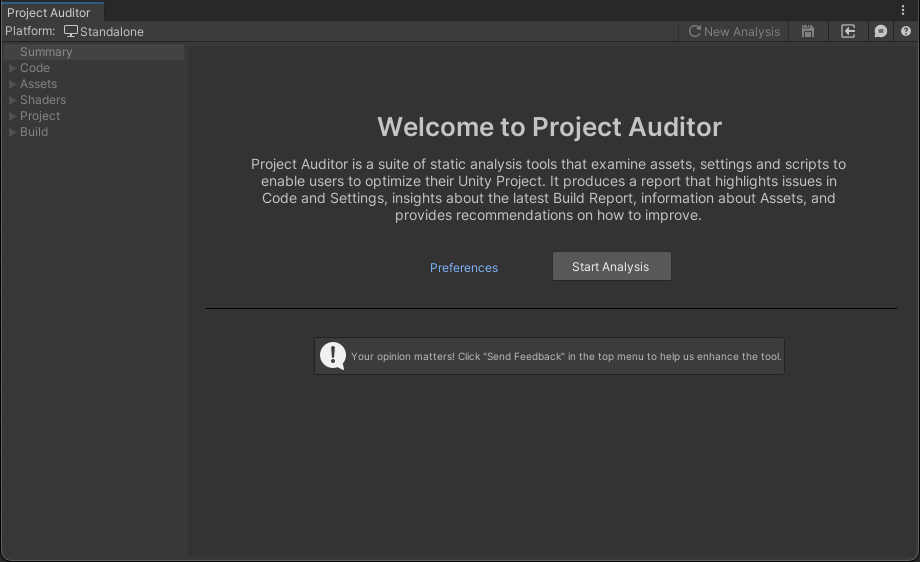
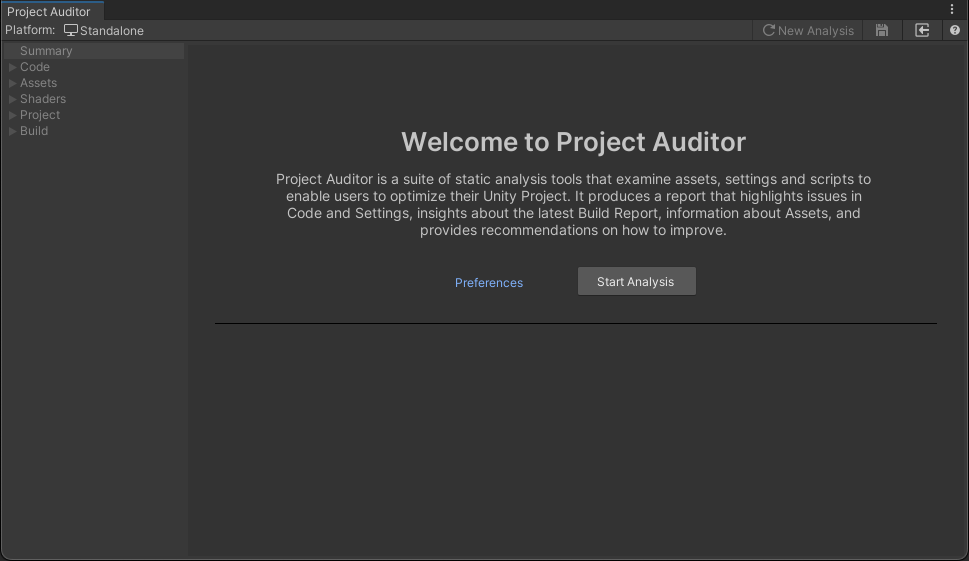
Removed feedback button

diff --git a/com.unity.project-auditor/Editor/UI/ProjectAuditorWindow.cs b/com.unity.project-auditor/Editor/UI/ProjectAuditorWindow.cs
@@ -1403,15 +1403,6 @@ namespace Unity.ProjectAuditor.Editor.UI
 
                     DrawHorizontalLine();
 
-                    EditorGUILayout.Space(k_SpacingHeight);
-
-                    using (new EditorGUILayout.HorizontalScope())
-                    {
-                        GUILayout.FlexibleSpace();
-                        EditorGUILayout.HelpBox(Contents.FeedbackBoxText, MessageType.Info);
-                        GUILayout.FlexibleSpace();
-                    }
-
                     GUILayout.FlexibleSpace();
                     GUILayout.FlexibleSpace();
                     GUILayout.FlexibleSpace();
@@ -1776,8 +1767,6 @@ namespace Unity.ProjectAuditor.Editor.UI
                     LoadReport();
                 }
 
-                Utility.DrawHelpButton(Contents.FeedbackButton, k_FeedbackFormUrl);
-
                 Utility.DrawHelpButton(Contents.HelpButton, Documentation.GetPageUrl("index"));
             }
         }
@@ -1971,7 +1960,6 @@ namespace Unity.ProjectAuditor.Editor.UI
         const string k_SaveToFile = "Save report to json file";
         const string k_Discard = "Discard current report";
         const string k_DiscardQuestion = "The current report will be lost. Are you sure?";
-        const string k_FeedbackFormUrl = "https://forms.gle/dfoJZBMtHYYQMZmE8";
 
         // UI styles and layout
         static class LayoutSize
@@ -1993,7 +1981,6 @@ namespace Unity.ProjectAuditor.Editor.UI
             public static readonly GUIContent LoadButton = Utility.GetIcon(Utility.IconType.Load, "Load report from json file");
             public static readonly GUIContent DiscardButton = EditorGUIUtility.TrTextContentWithIcon("New Analysis", "Discard the current report and return to the Welcome view.", "Refresh");
 
-            public static readonly GUIContent FeedbackButton = Utility.GetIcon(Utility.IconType.Feedback, "Send feedback to the Project Auditor team");
             public static readonly GUIContent HelpButton = Utility.GetIcon(Utility.IconType.Help, "Open Manual (in a web browser)");
             public static readonly GUIContent PreferencesMenuItem = EditorGUIUtility.TrTextContent("Preferences", $"Open User Preferences for {ProjectAuditor.DisplayName}");
 
@@ -2025,8 +2012,6 @@ enable users to optimize their Unity Project. It produces a report that highligh
 Code and Settings, insights about the latest Build Report, information about Assets, and
 provides recommendations on how to improve."
             );
-
-            public static readonly string FeedbackBoxText = "Your opinion matters! Click \"Send Feedback\" in the top menu to help us enhance the tool.";
 
             public static readonly GUIContent Clear = new GUIContent("Clear");
             public static readonly GUIContent Refresh = new GUIContent("Refresh");

diff --git a/com.unity.project-auditor/Editor/UI/Framework/Utility.cs b/com.unity.project-auditor/Editor/UI/Framework/Utility.cs
@@ -19,7 +19,6 @@ namespace Unity.ProjectAuditor.Editor.UI.Framework
             Minor,
             Ignored,
 
-            Feedback,
             Help,
             Refresh,
             Settings,
@@ -53,7 +52,6 @@ namespace Unity.ProjectAuditor.Editor.UI.Framework
         static readonly string k_MinorIconName = "Minor";
         static readonly string k_IgnoredIconName = "Ignored";
 
-        static readonly string k_FeedbackIconName = "ChatCircleText";
         static readonly string k_HelpIconName = "_Help";
         static readonly string k_RefreshIconName = "Refresh";
         static readonly string k_SettingsIconName = "Settings";
@@ -86,8 +84,6 @@ namespace Unity.ProjectAuditor.Editor.UI.Framework
         static Texture2D s_AdditionalAnalysisIcon;
         static Texture2D s_FoldoutExpandedIcon;
         static Texture2D s_FoldoutFoldedIcon;
-
-        static Texture2D s_FeedbackIcon;
 
         static GUIContent[] s_StatusWheel;
 
@@ -301,12 +297,6 @@ namespace Unity.ProjectAuditor.Editor.UI.Framework
                     return EditorGUIUtility.TrIconContent(k_DownloadIconName, tooltip);
                 case IconType.View:
                     return EditorGUIUtility.TrIconContent(k_ViewIconName, tooltip);
-                case IconType.Feedback:
-                    if (string.IsNullOrEmpty(tooltip))
-                        tooltip = "Open feedback form";
-                    if (s_FeedbackIcon == null)
-                        s_FeedbackIcon = LoadIcon(k_FeedbackIconName);
-                    return EditorGUIUtility.TrIconContent(s_FeedbackIcon, tooltip);
                 case IconType.Help:
                     return EditorGUIUtility.TrIconContent(k_HelpIconName, tooltip);
                 case IconType.Refresh:

diff --git a/com.unity.project-auditor/Documentation~/GettingStarted.md b/com.unity.project-auditor/Documentation~/GettingStarted.md
@@ -28,7 +28,6 @@ On the window's toolbar are buttons to perform the following actions, from left 
 * Discard the current Report and return to the Welcome View to perform a new analysis
 * Save the current Report to a file
 * Load a Report from file
-* Open a feedback form in a browser window to let Project Auditor's developers know what you think about it
 * Open this package documentation in a browser window
 
 The rest of the Summary View contains high-level information about some of the Issues and Insights found in the project,
